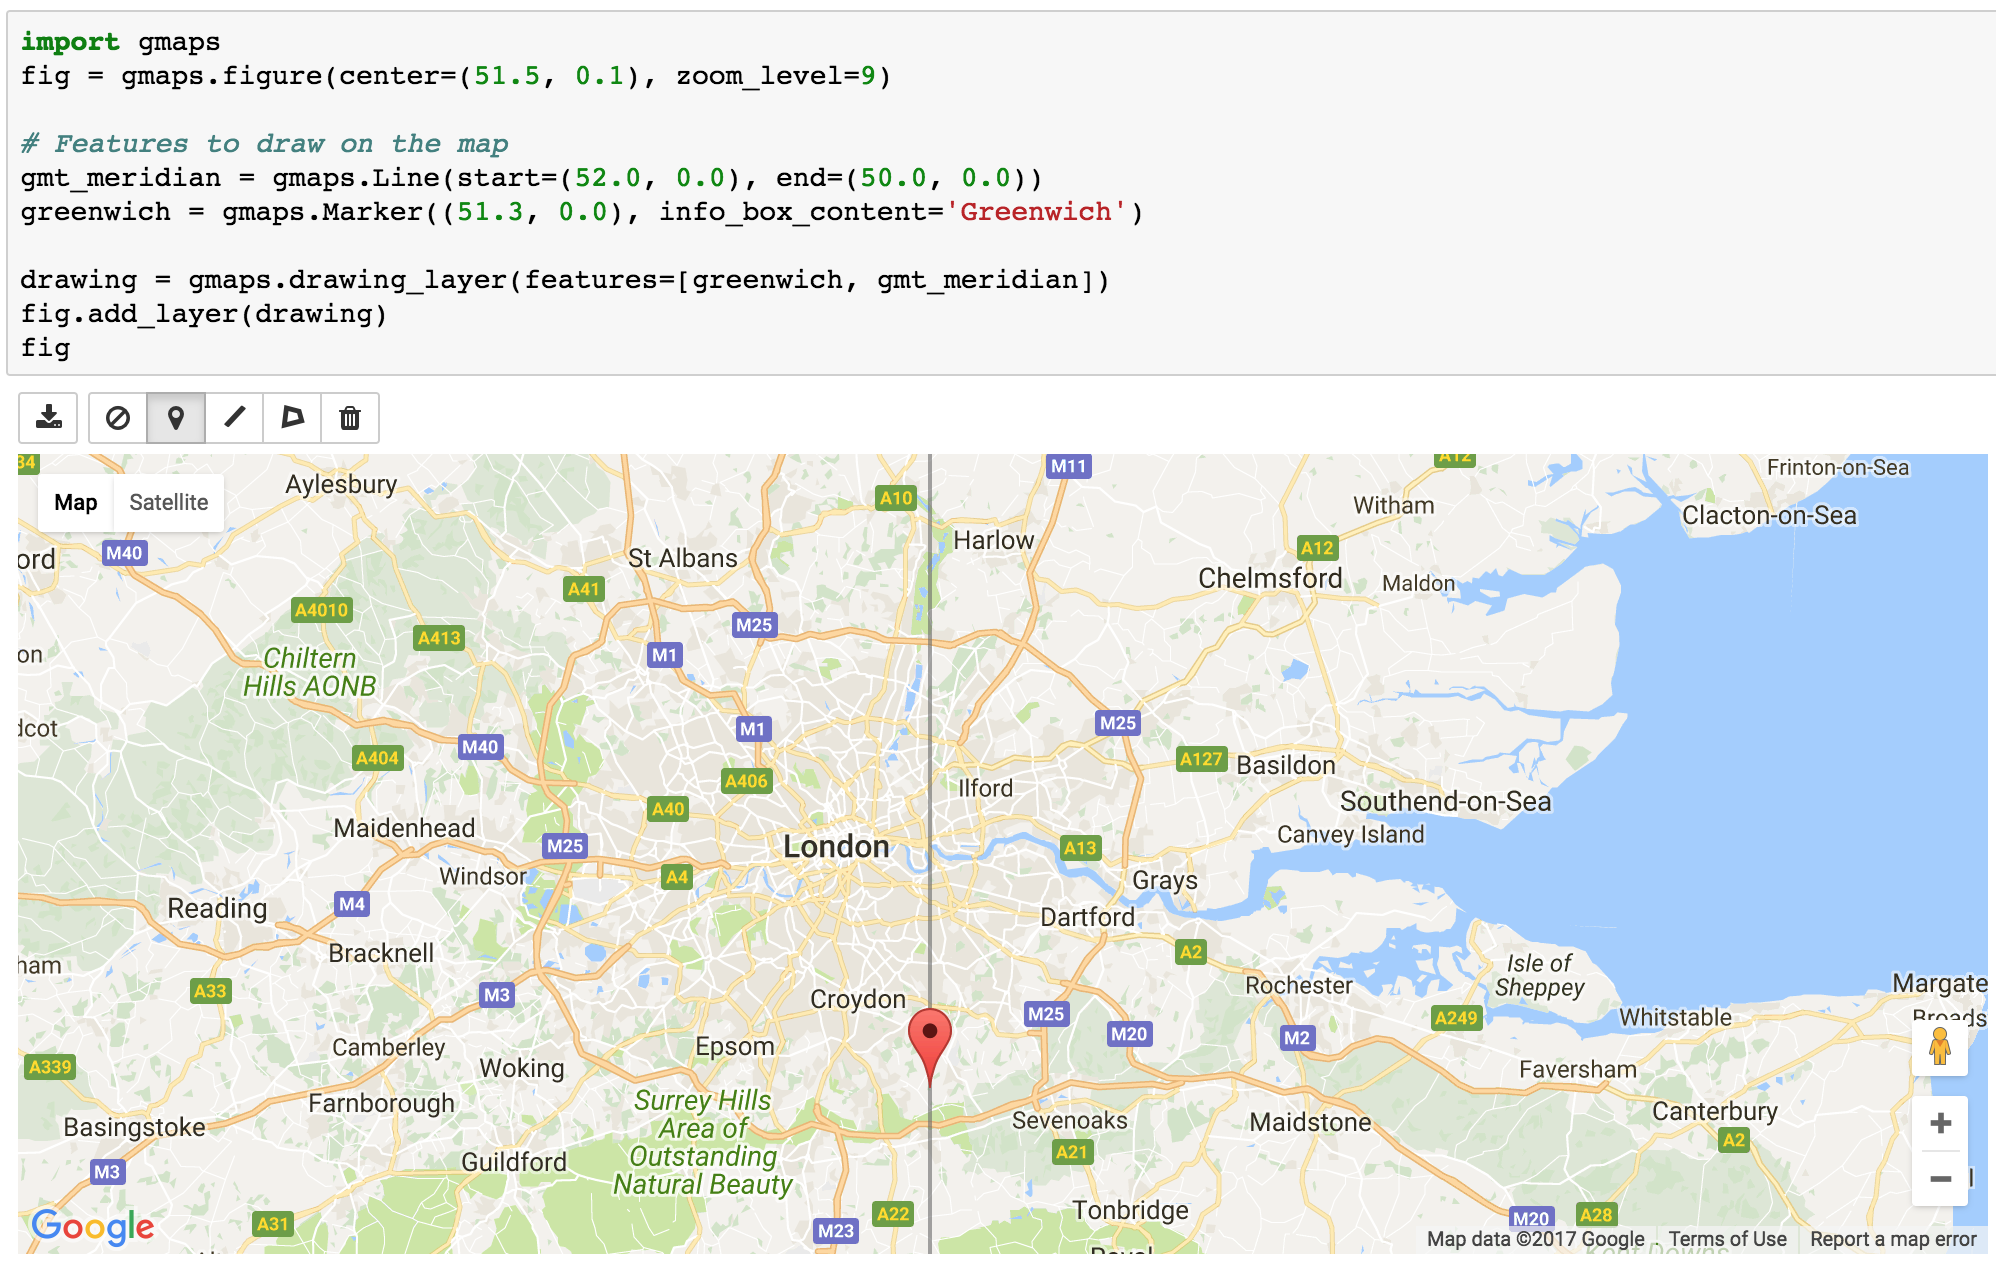
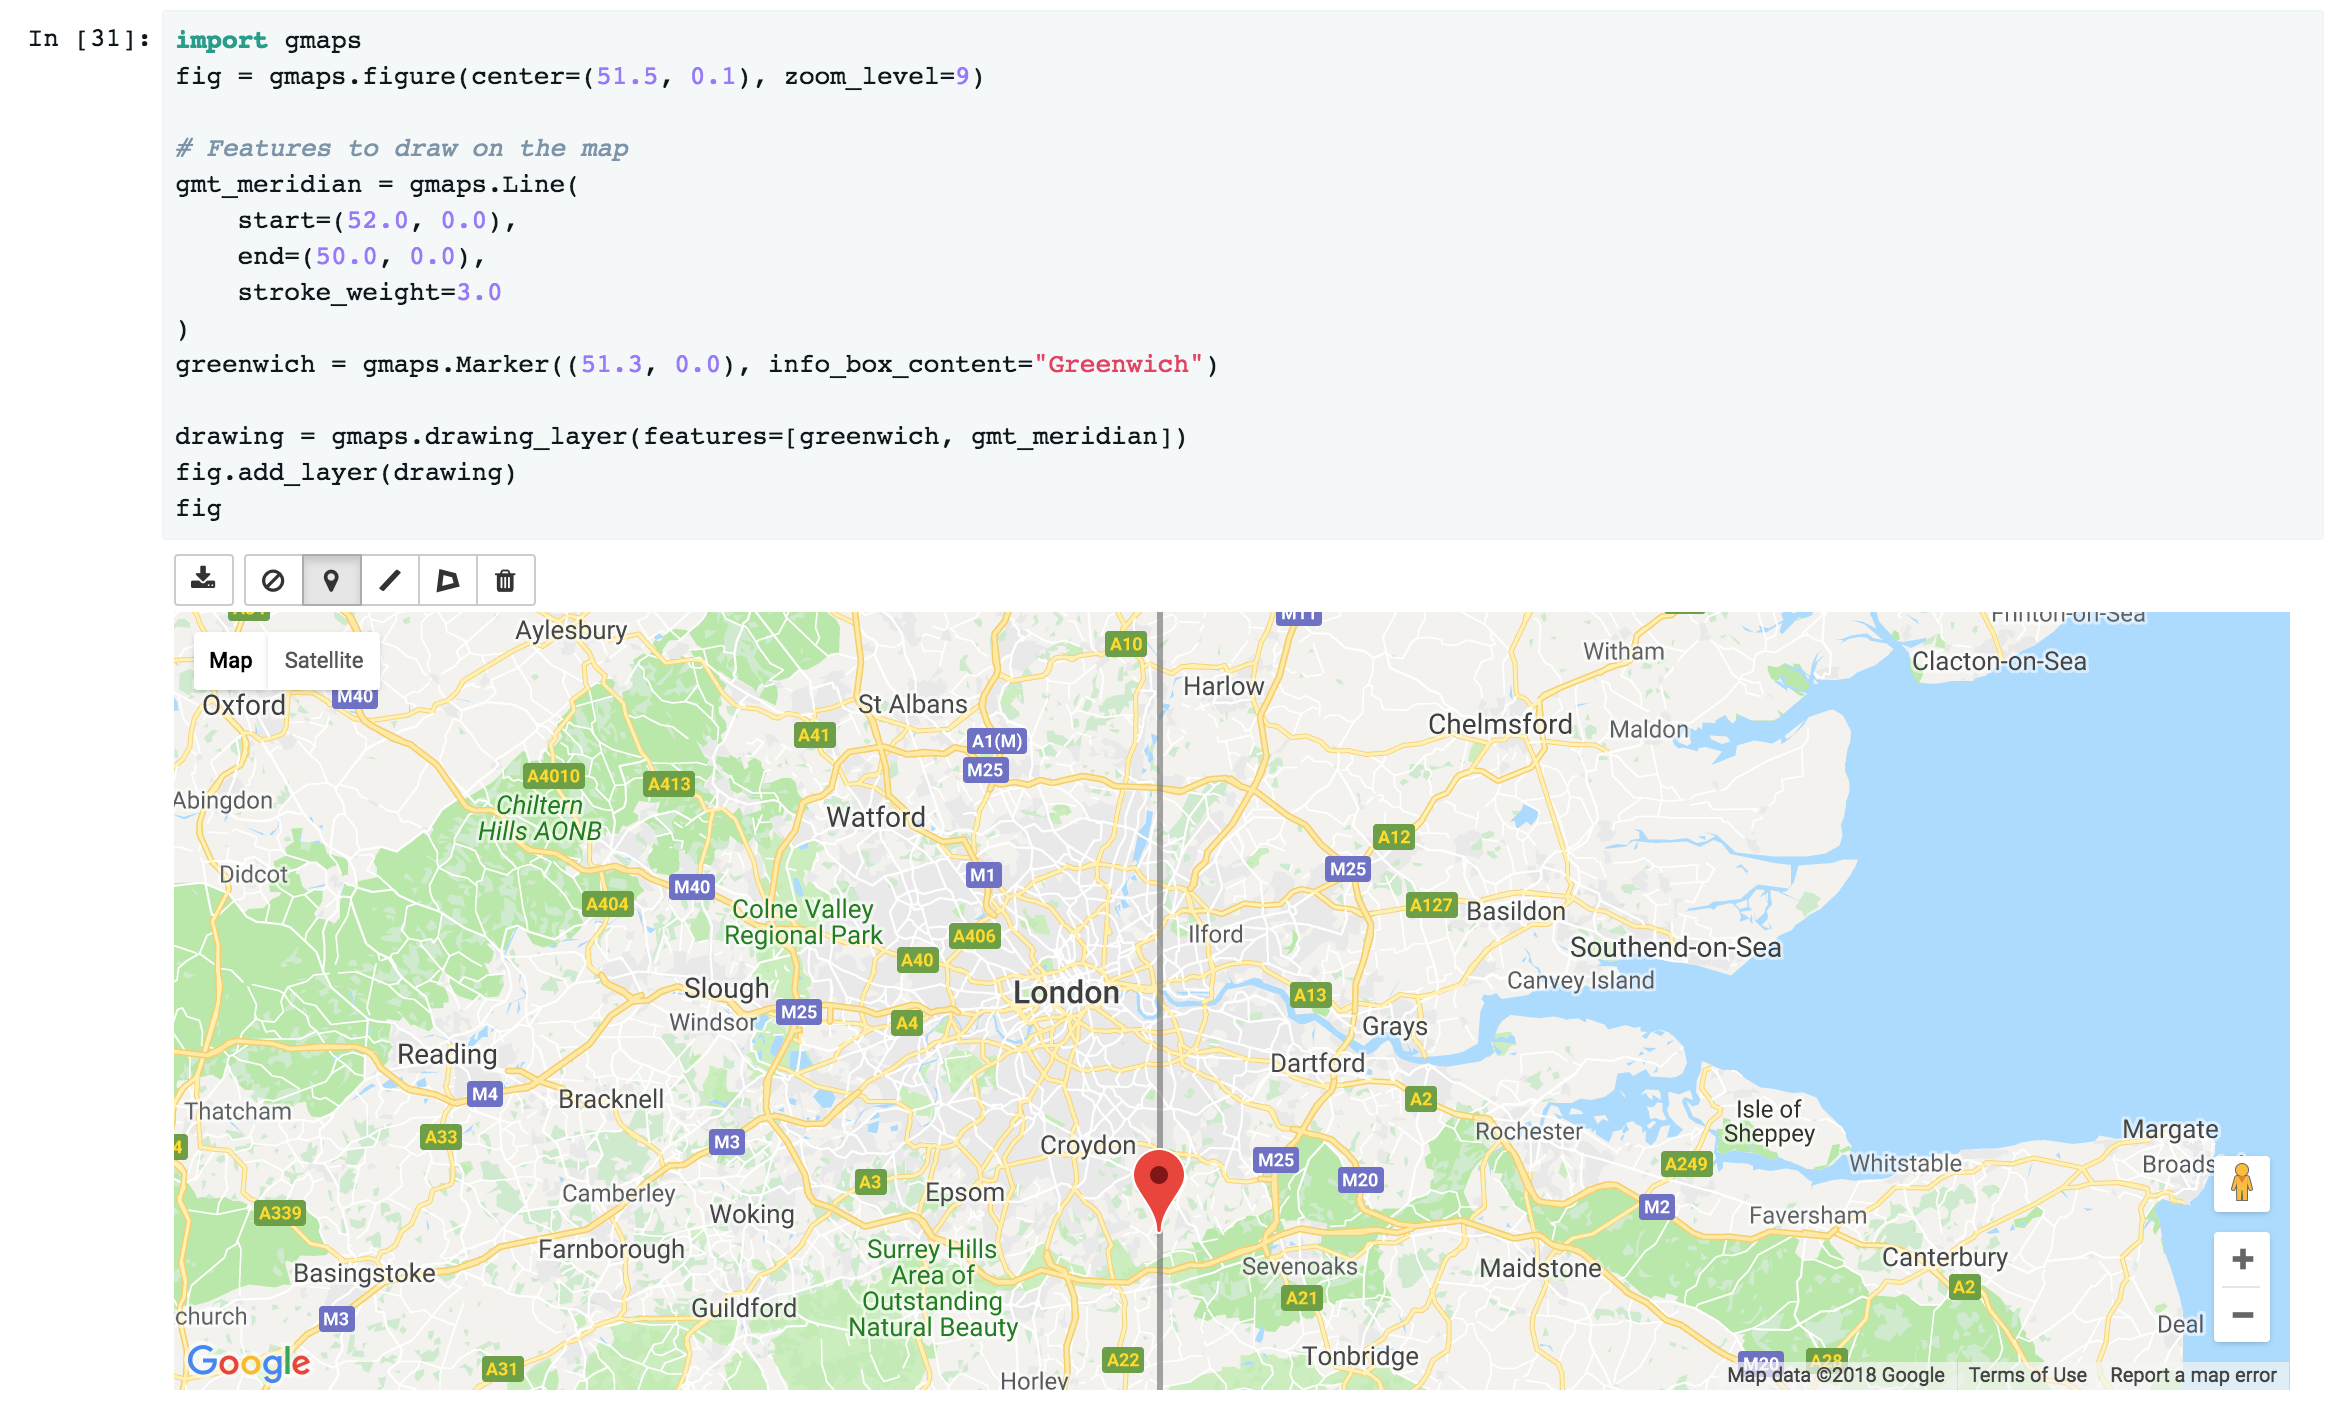
Add example showing line customisation

diff --git a/docs/source/tutorial.rst b/docs/source/tutorial.rst
@@ -515,7 +515,11 @@ a marker on Greenwich itself::
   fig = gmaps.figure(center=(51.5, 0.1), zoom_level=9)
 
   # Features to draw on the map
-  gmt_meridian = gmaps.Line(start=(52.0, 0.0), end=(50.0, 0.0))
+  gmt_meridian = gmaps.Line(
+      start=(52.0, 0.0),
+      end=(50.0, 0.0),
+      stroke_weight=3.0
+  )
   greenwich = gmaps.Marker((51.3, 0.0), info_box_content="Greenwich")
 
   drawing = gmaps.drawing_layer(features=[greenwich, gmt_meridian])
